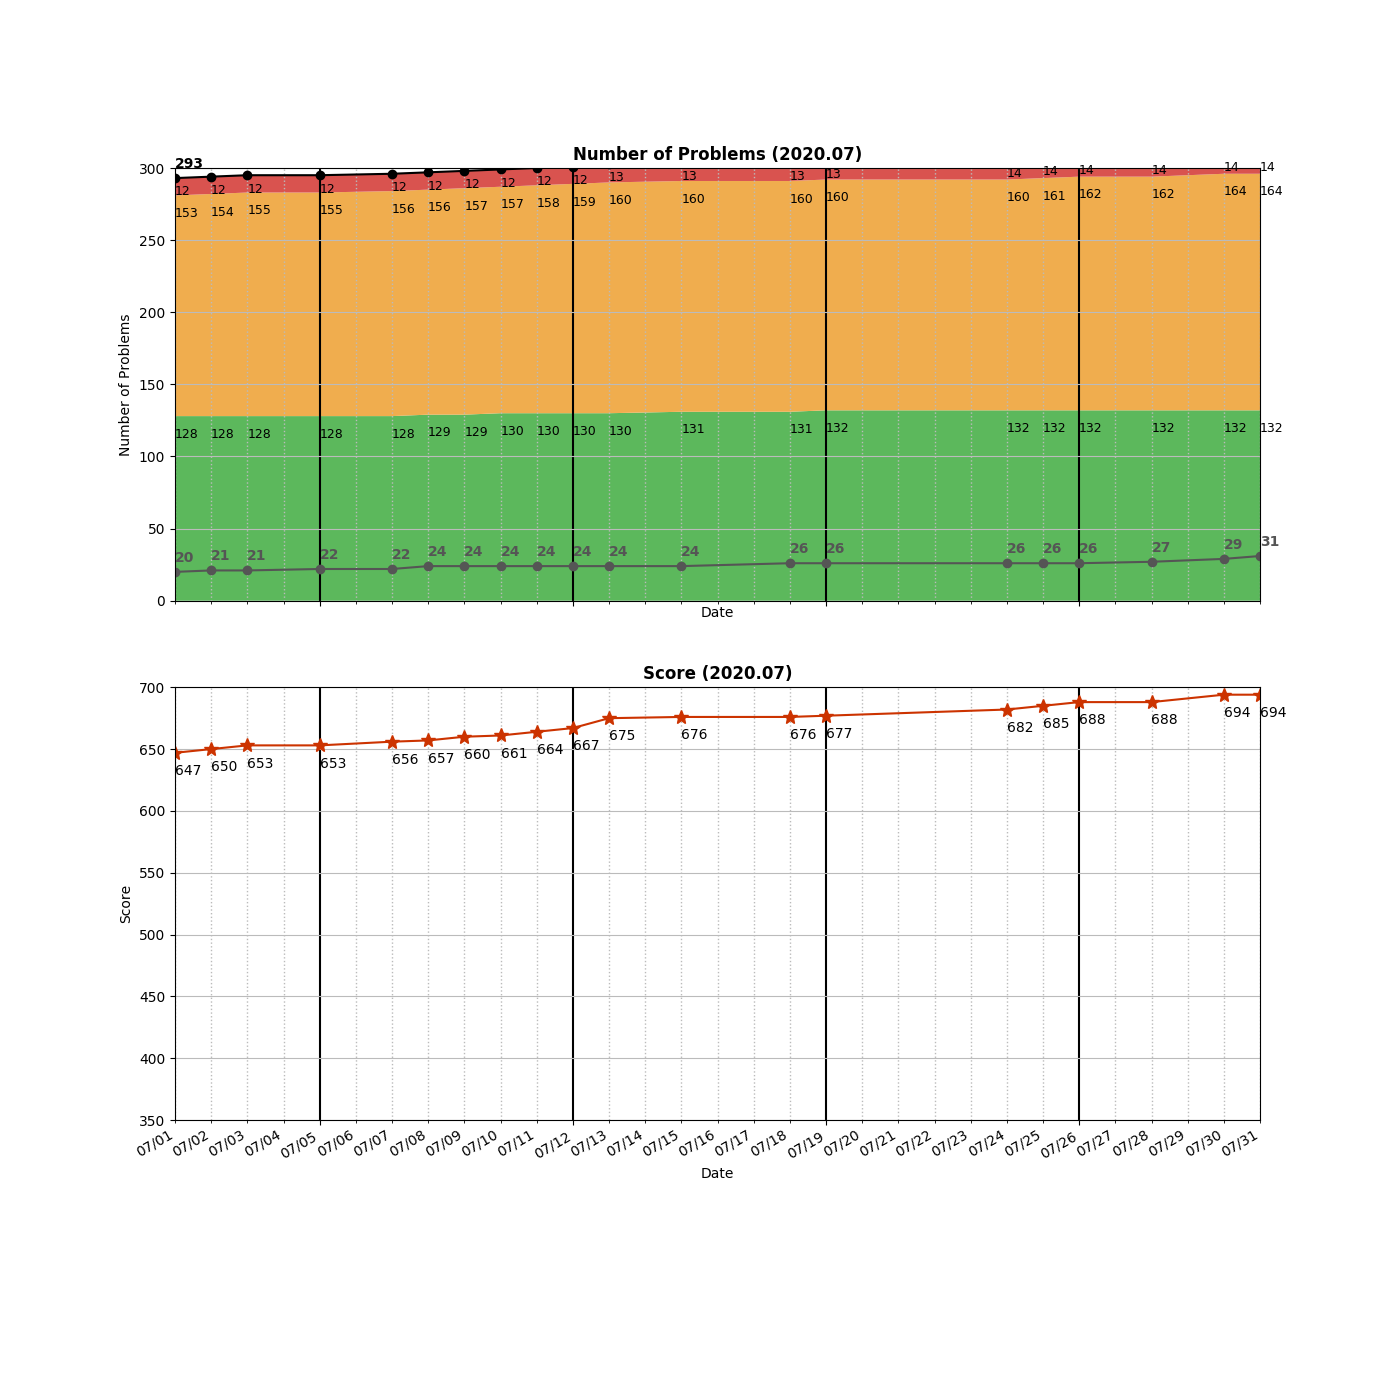
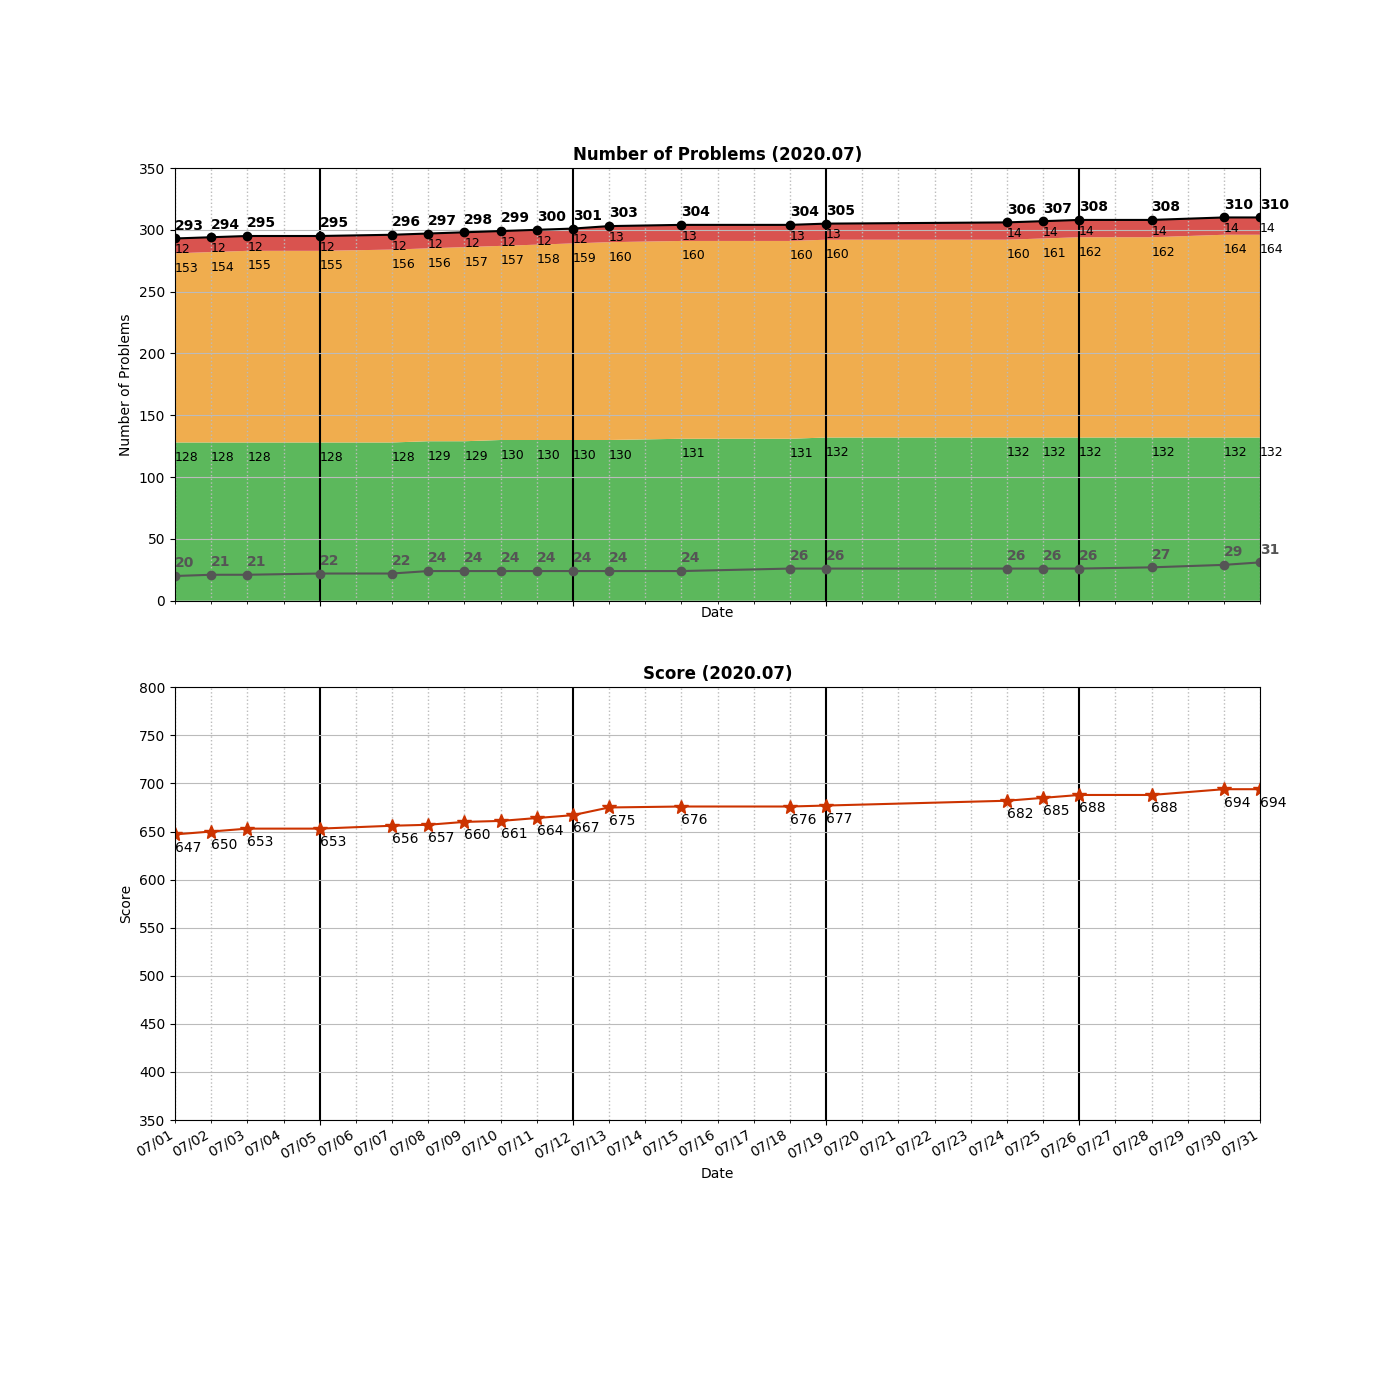
Updated statistics

diff --git a/algodraw.py b/algodraw.py
@@ -234,7 +234,9 @@ def draw(dates, values):
     axs[0].set_xlim(datetime.datetime(2020,6,1), datetime.datetime(2020,6,30)) 
     plt.savefig(FILE_IMAGE_SCORE202006)
 
-    
+    axs[0].set_ylim(0,350) #number of quiz
+    axs[1].set_ylim(350,800) #score of quiz
+
     axs[0].set(xlabel="Date", ylabel="Number of Problems",
         title="Number of Quiz (2020.07)")
     axs[0].set_title("Number of Problems (2020.07)", fontweight = 'bold')
@@ -244,6 +246,10 @@ def draw(dates, values):
     axs[1].set_title("Score (2020.07)", fontweight = 'bold')
     axs[0].set_xlim(datetime.datetime(2020,7,1), datetime.datetime(2020,7,31)) 
     plt.savefig(FILE_IMAGE_SCORE202007)
+
+
+    axs[0].set_ylim(0,350) #number of quiz
+    axs[1].set_ylim(350,800) #score of quiz
 
     axs[0].set(xlabel="Date", ylabel="Number of Problems",
         title="Number of Quiz (2020.08)")

diff --git a/README.md b/README.md
@@ -295,6 +295,7 @@ algo
 │   ├── _0314_BinaryTreeVerticalOrderTraversal.py
 │   ├── _0366_FindLeavesOfBinaryTree.py
 │   ├── _0429_N-aryTreeLevelOrderTraversal.py
+│   ├── _0437_PathSum3.py
 │   ├── _0501_FindModeInBinarySearchTree.py
 │   ├── _0530_MinimumAbsoluteDifferenceInBST.py
 │   ├── _0538_ConvertBSTtoGreaterTree.py
@@ -338,7 +339,7 @@ algo
     ├── _0127_WordLadder_TLE.py
     └── _0127_WordLadder_wrong.py
 
-28 directories, 309 files
+28 directories, 310 files
 
 =====================================
 ============= Local Repo ============
@@ -539,6 +540,7 @@ _0412_FizzBuzz.py
 _0415_AddStrings.py
 _0416_PartitionEqualSubsetSum.py
 _0429_N-aryTreeLevelOrderTraversal.py
+_0437_PathSum3.py
 _0438_FindAllAnagramsInAString.py
 _0442_FindAllDuplicatesInAnArray.py
 _0448_FindAllNumbersDisappearedInAnArray.py
@@ -652,7 +654,7 @@ _1391_CheckIfThereIsAValidPathInAGrid.py
 _1427_PerformStringShifts.py
 _1490_CloneN-aryTree.py
 =====================================
-Num of Python Practice:  308
+Num of Python Practice:  309
 
 
 =====================================
@@ -853,6 +855,7 @@ Num of Python Practice:  308
  0415 Add Strings
  0416 Partition Equal Subset Sum
  0429 N-ary Tree Level Order Traversal
+ 0437 Path Sum III
  0438 Find All Anagrams in a String
  0442 Find All Duplicates in an Array
  0448 Find All Numbers Disappeared in an Array
@@ -970,11 +973,11 @@ Num of Python Practice:  308
  1427 Perform String Shifts
  1490 Clone N-ary Tree
 =====================================
-Solved / Total (Easy)  :  132 /  426
-Solved / Total (Medium):  165 /  784
+Solved / Total (Easy)  :  131 /  425
+Solved / Total (Medium):  167 /  785
 Solved / Total (Hard)  :   14 /  323
-Solved / Total (All)   :  311 / 1533
-Total Score            :  697
+Solved / Total (All)   :  312 / 1533
+Total Score            :  702
 =====================================
 
 ```
